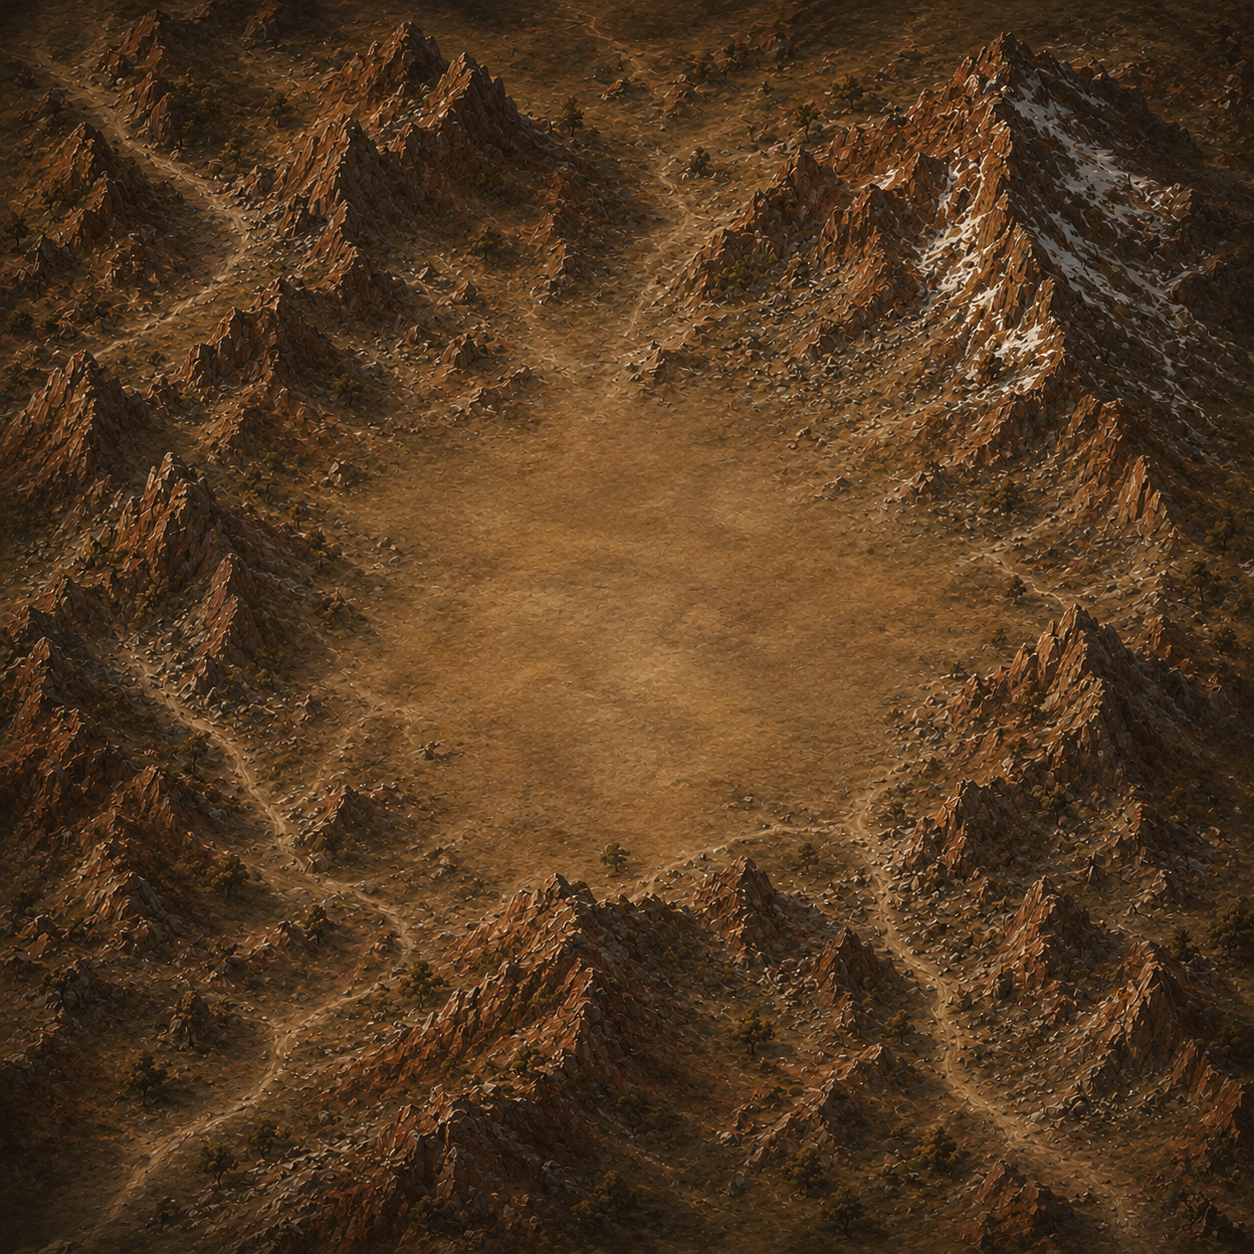
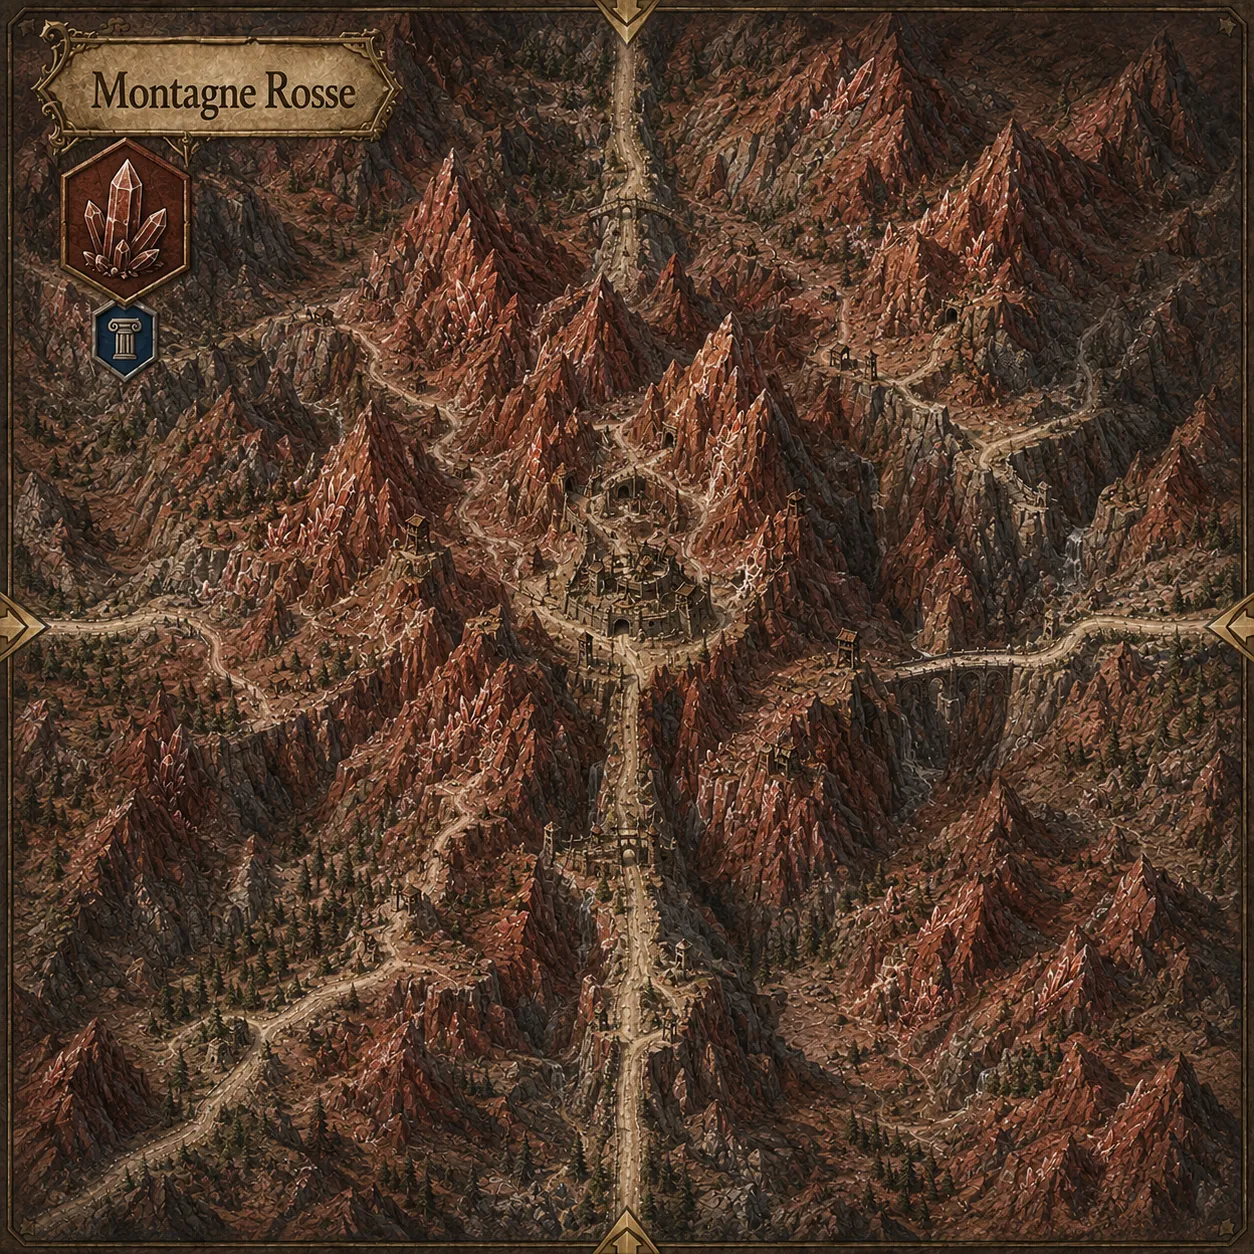
Le dieci tessere dipinte: ogni Regione ha il suo quadro (D-277)
Consegna del committente: le illustrazioni delle dieci tessere del parco
(D-265) in res://art/region/ — le sei di CHR_01 sostituite con le versioni
nuove, le quattro del tavolo pescato (porto, palude, isola, bosco)
aggiunte. La mappa le ritaglia nell'esagono (D-059); la soglia (D-276) le
dipinge nell'assaggio, col terreno generato come ripiego.

Il quadro del tabellone (map.board) resta alla mappa d'autore: sul tavolo
pescato le tessere stanno in griglia (D-275) e ognuna porta il suo quadro,
quindi _board() torna nullo quando il mondo ha map_positions.

Suite 560 prove / 14.960 asserzioni; playtest 100 semi 0/8; cancelli verdi.

Claude-Session: https://claude.ai/code/session_017H3wnnDSrCTeCNzz22mxgq

diff --git a/docs/DECISIONS.md b/docs/DECISIONS.md
@@ -10,6 +10,35 @@ observation for 0.2, deliberately *not* acted on · **todo** = known gap.
 
 ---
 
+## D-277 — Le dieci tessere dipinte: ogni Regione ha il suo quadro
+
+**implemented in 0.1.239** — consegna del committente, «queste le tessere delle 10 regioni»
+
+Il committente ha consegnato le illustrazioni delle dieci tessere del parco
+(D-265), generate dai prompt preparati in sessione: targa col nome, segno
+unico in emblema, iconcine dei domini. Stanno dove l'app le sa trovare da
+ISSUES 5 (`res://art/region/<id>.png`, la chiave `art_prompt_key` è il nome
+del file): le sei di CHR_01 **sostituite** con le versioni nuove, le quattro
+del parco pescato (porto, palude, isola, bosco) **aggiunte**.
+
+**Le regole che ne seguono:**
+
+1. la mappa in partita le ritaglia dentro l'esagono da sola (D-059:
+   l'immagine è il terreno, il disegno generato si fa da parte);
+2. **il quadro del tabellone (`map.board`) vale solo per la mappa
+   d'autore**: sul tavolo pescato le tessere si posano in griglia (D-275) e
+   ognuna porta il suo quadro — il tabellone dipinto lì sarebbe un'altra
+   mappa sotto quella vera. `map_view._board()` ora torna nullo quando il
+   mondo ha `map_positions`;
+3. la **soglia** (D-276) riceve il quadro come promesso: l'assaggio del
+   tavolo dipinge la tessera consegnata, col terreno generato come ripiego
+   per una tessera che un giorno restasse senza.
+
+Non misurato sul gioco (0 regole toccate: playtest 0/8 identico); misurato
+sugli occhi del committente, che è il cancello delle cose dipinte (§5ter).
+
+---
+
 ## D-276 — La soglia: l'app si apre sulla scatola, non sul menu
 
 **implemented in 0.1.238** — richiesta del committente, sulla bozza approvata in sessione

diff --git a/CHANGELOG.md b/CHANGELOG.md
@@ -5,6 +5,18 @@ Il progetto segue le milestone della specifica esecutiva v0.2.
 
 ---
 
+## 0.1.239 — Le dieci tessere dipinte (D-277)
+
+- **Consegna del committente**: le illustrazioni delle dieci tessere del
+  parco (D-265) in `res://art/region/` — le sei di CHR_01 sostituite, le
+  quattro del tavolo pescato aggiunte. La mappa le ritaglia nell'esagono
+  (D-059), la soglia (D-276) le dipinge nell'assaggio.
+- **Il quadro del tabellone resta alla mappa d'autore**: sul tavolo pescato
+  (`map_positions`) ogni tessera porta il suo quadro e `map.board` non si
+  stende più sotto la griglia.
+- Suite **560 prove / 14.960 asserzioni**; playtest 100 semi **0/8**
+  (nessuna regola toccata); cancelli verdi.
+
 ## 0.1.238 — La soglia: l'app si apre sulla scatola (D-276)
 
 - **La schermata d'ingresso** chiesta dal committente: il nome del gioco,
